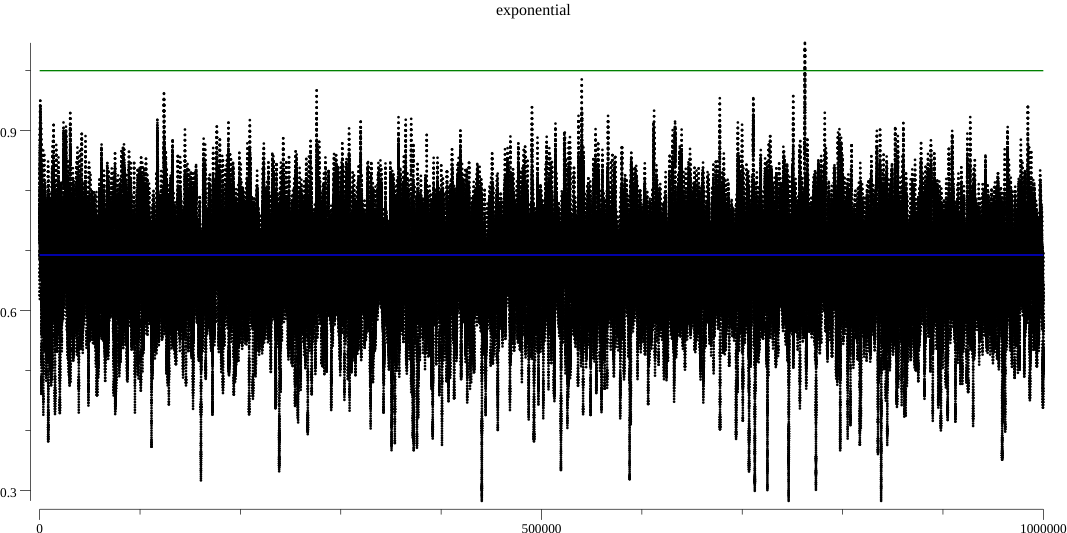
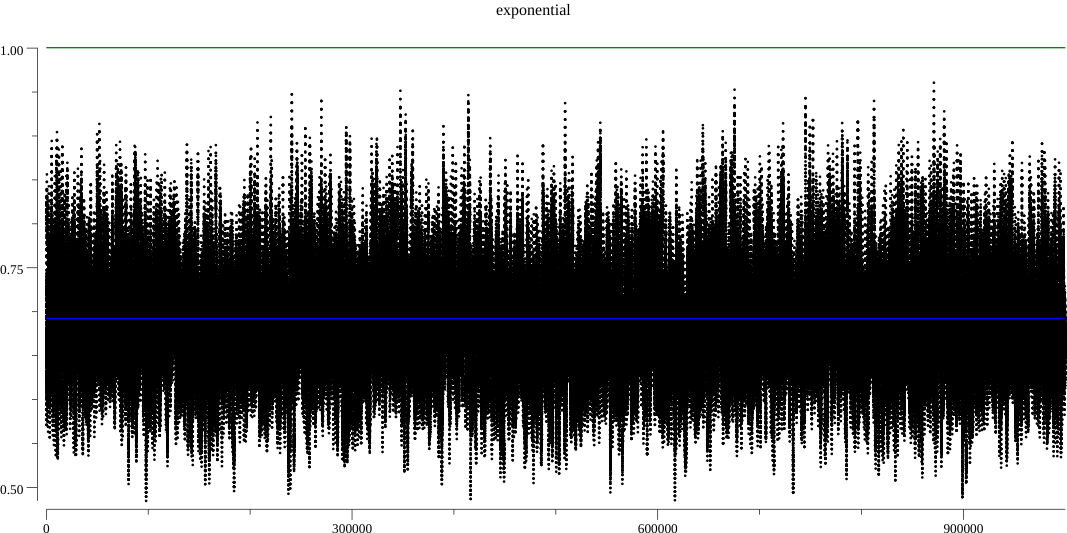
wip

diff --git a/empirical/extrapolate-tabs/main_test.go b/empirical/extrapolate-tabs/main_test.go
@@ -19,25 +19,27 @@ func TestTABSAdjustment1(t *testing.T) {
 
 	dataSize := 1000000
 
-	runExperiment := func(rander distuv.Rander, name string) {
+	runExperiment := func(rander distuv.Rander, name string, valsOper func(int, []float64, func()) bool) {
 		simulatedTABVals := []float64{}
 		for i := 0; i < dataSize; i++ {
 			r := rander.Rand()
 			simulatedTABVals = append(simulatedTABVals, r)
 		}
 
+		// tabs := simulatedTABVals[rand.Intn(dataSize)]
 		mean, _ := stats.Mean(simulatedTABVals)
 		med, _ := stats.Median(simulatedTABVals)
 		t.Logf("%s | mean: %v med: %v\n", name, mean, med)
-
-		// tabs := simulatedTABVals[rand.Intn(dataSize)]
 		tabs := med
 
 		tabsPlottable := plotter.XYs{}
+		meansPlottable := plotter.XYs{}
+		medsPlottable := plotter.XYs{}
 
 		consecutiveDrops := 0 // experimental
 		maxDrops := 20
 		for i, f := range simulatedTABVals {
+
 			if f > tabs {
 				consecutiveDrops = 0 // experimental
 
@@ -57,7 +59,7 @@ func TestTABSAdjustment1(t *testing.T) {
 
 				// floorDrops sets a floor for the drop rate multiplier
 				floorDrops := consecutiveDrops
-				if consecutiveDrops <= 10 {
+				if consecutiveDrops <= 42 {
 					floorDrops = 1
 				}
 				tabs -= tabs / (100 / float64(floorDrops))
@@ -67,6 +69,36 @@ func TestTABSAdjustment1(t *testing.T) {
 				tabs += 0
 			}
 			tabsPlottable = append(tabsPlottable, plotter.XY{X: float64(i), Y: tabs})
+
+			var modifiedVals bool
+			if valsOper != nil {
+				modifiedVals = valsOper(i, simulatedTABVals, func() {
+					// Last reading before they
+					mean, _ = stats.Mean(simulatedTABVals)
+					meansPlottable = append(meansPlottable, plotter.XY{
+						X: float64(i),
+						Y: mean,
+					})
+					med, _ = stats.Median(simulatedTABVals)
+					medsPlottable = append(medsPlottable, plotter.XY{
+						X: float64(i),
+						Y: med,
+					})
+				})
+			}
+			if modifiedVals || i == 0 || i == len(simulatedTABVals)-1 {
+				mean, _ = stats.Mean(simulatedTABVals)
+				meansPlottable = append(meansPlottable, plotter.XY{
+					X: float64(i),
+					Y: mean,
+				})
+				med, _ = stats.Median(simulatedTABVals)
+				medsPlottable = append(medsPlottable, plotter.XY{
+					X: float64(i),
+					Y: med,
+				})
+			}
+
 			// t.Log("tabs", tabs)
 		}
 
@@ -84,26 +116,23 @@ func TestTABSAdjustment1(t *testing.T) {
 		scatterTABS.Shape = draw.CircleGlyph{}
 		p.Add(scatterTABS)
 
-		lineMean, _ := plotter.NewLine(plotter.XYs{
-			plotter.XY{0, mean},
-			plotter.XY{float64(dataSize), mean},
-		})
+		lineMean, _ := plotter.NewLine(meansPlottable)
 		lineMean.Color = colornames.Green
 		p.Add(lineMean)
 
-		lineMed, _ := plotter.NewLine(plotter.XYs{
-			plotter.XY{0, med},
-			plotter.XY{float64(dataSize), med},
-		})
+		lineMed, _ := plotter.NewLine(medsPlottable)
 		lineMed.Color = colornames.Blue
 		p.Add(lineMed)
 
-		p.Save(800, 400, fmt.Sprintf("./%s.png", name))
+		chartFilepath := fmt.Sprintf("./%s.png", name)
+		t.Log("Writing", chartFilepath)
+		p.Save(800, 400, chartFilepath)
 	}
 
 	for _, d := range []struct {
-		name string
-		dist distuv.Rander
+		name     string
+		dist     distuv.Rander
+		valsOper func(int, []float64, func()) bool
 	}{
 		{
 			"pareto",
@@ -112,12 +141,33 @@ func TestTABSAdjustment1(t *testing.T) {
 				Alpha: 1,
 				Src:   exprand.NewSource(uint64(time.Now().UnixNano())),
 			},
+			nil,
 		},
 		{
 			"exponential",
 			distuv.Exponential{
 				Rate: 1,
 				Src:  exprand.NewSource(uint64(time.Now().UnixNano())),
+			},
+			nil,
+		},
+		{
+			"exponential_dynamic",
+			distuv.Exponential{
+				Rate: 1,
+				Src:  exprand.NewSource(uint64(time.Now().UnixNano())),
+			},
+			// This operation drops all simuluated active balances by half.
+			// Paper hands.
+			func(i int, float64s []float64, beforeHook func()) bool {
+				if i == len(float64s)/2 {
+					beforeHook()
+					for j, v := range float64s {
+						float64s[j] = v / 2
+					}
+					return true
+				}
+				return false
 			},
 		},
 		{
@@ -127,8 +177,9 @@ func TestTABSAdjustment1(t *testing.T) {
 				Sigma: math.Sqrt(1),
 				Src:   exprand.NewSource(uint64(time.Now().UnixNano())),
 			},
+			nil,
 		},
 	} {
-		runExperiment(d.dist, d.name)
+		runExperiment(d.dist, d.name, d.valsOper)
 	}
 }
